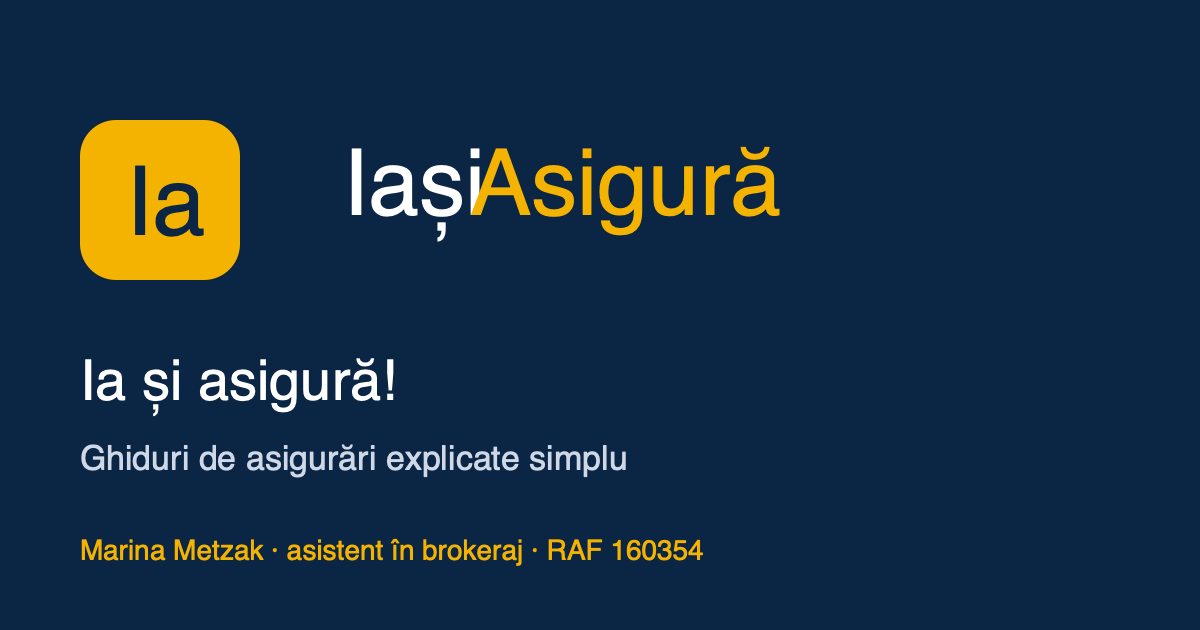
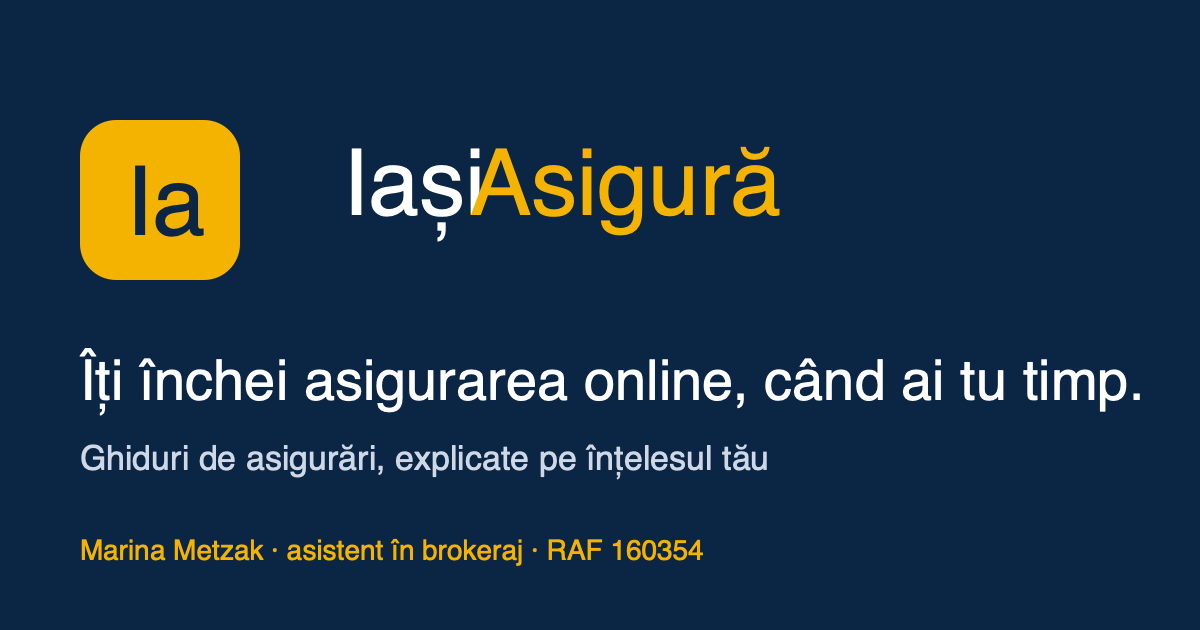
feat: hero restructurat (titlu scurt, portret, cine sunt + ASF, pași înainte de produse), OG cu titlul nou

Changed region(s): [[0.0617, 0.5429, 0.9558, 0.6635], [0.3083, 0.6937, 0.6475, 0.754]]

diff --git a/index.html b/index.html
@@ -5,7 +5,7 @@
   <meta charset="UTF-8" />
   <meta name="viewport" content="width=device-width, initial-scale=1.0" />
   <title>Asigurări online în România | IașiAsigură, Marina Metzak</title>
-  <meta name="description" content="RCA, locuință, călătorie sau sănătate le închei online, pe platforma brokerului. Pentru restul îmi scrii pe WhatsApp. Marina Metzak, asistent în brokeraj." />
+  <meta name="description" content="Asigurări RCA, locuință, călătorie, sănătate încheiate online cu Marina Metzak, asistent în brokeraj înregistrat la ASF. Pentru restul, ofertă pe WhatsApp." />
   <meta name="robots" content="index, follow, max-image-preview:large, max-snippet:-1" />
   <link rel="canonical" href="https://iasiasigura.com/" />
   <meta name="theme-color" content="#0b2545" />
@@ -15,14 +15,14 @@
   <meta property="og:locale" content="ro_RO" />
   <meta property="og:site_name" content="IașiAsigură" />
   <meta property="og:title" content="Asigurări online în România | IașiAsigură, Marina Metzak" />
-  <meta property="og:description" content="RCA, locuință, călătorie sau sănătate le închei online, pe platforma brokerului. Pentru restul îmi scrii pe WhatsApp. Marina Metzak, asistent în brokeraj." />
+  <meta property="og:description" content="Asigurări RCA, locuință, călătorie, sănătate încheiate online cu Marina Metzak, asistent în brokeraj înregistrat la ASF. Pentru restul, ofertă pe WhatsApp." />
   <meta property="og:url" content="https://iasiasigura.com/" />
   <meta property="og:image" content="https://iasiasigura.com/assets/og-default.png" />
   <meta property="og:image:width" content="1200" />
   <meta property="og:image:height" content="630" />
   <meta name="twitter:card" content="summary_large_image" />
   <meta name="twitter:title" content="Asigurări online în România | IașiAsigură, Marina Metzak" />
-  <meta name="twitter:description" content="RCA, locuință, călătorie sau sănătate le închei online, pe platforma brokerului. Pentru restul îmi scrii pe WhatsApp. Marina Metzak, asistent în brokeraj." />
+  <meta name="twitter:description" content="Asigurări RCA, locuință, călătorie, sănătate încheiate online cu Marina Metzak, asistent în brokeraj înregistrat la ASF. Pentru restul, ofertă pe WhatsApp." />
   <meta name="twitter:image" content="https://iasiasigura.com/assets/og-default.png" />
   <link rel="icon" href="assets/favicon.svg" type="image/svg+xml" />
   <link rel="apple-touch-icon" href="assets/apple-touch-icon.png" />
@@ -186,24 +186,29 @@
     </div>
   </header>
   <main id="main">
-  <section class="hero"><div class="container">
-    <p class="eyebrow">Marina Metzak · asistent în brokeraj · RAF 160354</p>
-    <h1>Îți închei asigurarea online. Pentru orice întrebare, îți răspund eu.</h1>
-    <p>Pentru polițele RCA, de locuință, călătorie sau sănătate, ai la dispoziție o soluție simplă și rapidă: le poți încheia online, iar polița ajunge direct pe e-mail. Pentru CASCO, asigurări de viață, cele dedicate companiilor sau sectorului agricol, mă poți contacta pe WhatsApp. Compar ofertele mai multor asigurători și îți prezint opțiunile potrivite nevoilor tale, astfel încât să poți lua o decizie informată.</p>
-    <div class="cta-row"><a href="https://wa.me/40752205206?text=Bun%C4%83%20Marina%2C%20vreau%20informa%C8%9Bii%20despre%20o%20asigurare." class="btn btn-wa" target="_blank" rel="noopener"><svg viewBox="0 0 24 24" width="20" height="20" aria-hidden="true"><path fill="currentColor" d="M12 2a10 10 0 0 0-8.6 15.1L2 22l5-1.3A10 10 0 1 0 12 2zm0 18.2a8.2 8.2 0 0 1-4.2-1.2l-.3-.2-3 .8.8-2.9-.2-.3A8.2 8.2 0 1 1 12 20.2zm4.5-6.1c-.2-.1-1.5-.7-1.7-.8s-.4-.1-.6.1-.6.8-.8 1c-.1.2-.3.2-.5.1a6.7 6.7 0 0 1-3.3-2.9c-.3-.4.3-.4.7-1.3.1-.2 0-.3 0-.5l-.8-1.8c-.2-.5-.4-.4-.6-.4h-.5a1 1 0 0 0-.7.3 3 3 0 0 0-.9 2.2 5.2 5.2 0 0 0 1.1 2.8 12 12 0 0 0 4.6 4c1.7.7 2.1.6 2.8.5a2.4 2.4 0 0 0 1.6-1.1 2 2 0 0 0 .1-1.1c0-.2-.2-.2-.5-.3z"/></svg><span>Scrie pe WhatsApp</span></a><a href="#asigurari" class="btn btn-primary">Vezi asigurările</a></div>
-    <ul class="hero-points"><li>✔ Asistent în brokeraj înregistrat la ASF (RAF 160354)</li><li>✔ Lucrez online cu clienți din toată România</li><li>✔ Îți răspund pe WhatsApp, în timpul programului</li><li>✔ Polița ajunge pe e-mail imediat după plată</li></ul>
+  <section class="hero"><div class="container hero-grid">
+    <div class="hero-text">
+      <p class="eyebrow">IașiAsigură · asigurări online</p>
+      <h1>Îți închei asigurarea online, când ai tu timp.</h1>
+      <p class="hero-sub">Pentru orice întrebare îți răspund eu, Marina Metzak, asistent în brokeraj înregistrat la ASF. Nu un call-center.</p>
+      <div class="cta-row"><a href="#asigurari" class="btn btn-primary">Alege asigurarea</a><a href="https://wa.me/40752205206?text=Bun%C4%83%20Marina%2C%20vreau%20informa%C8%9Bii%20despre%20o%20asigurare." class="btn btn-wa" target="_blank" rel="noopener"><svg viewBox="0 0 24 24" width="20" height="20" aria-hidden="true"><path fill="currentColor" d="M12 2a10 10 0 0 0-8.6 15.1L2 22l5-1.3A10 10 0 1 0 12 2zm0 18.2a8.2 8.2 0 0 1-4.2-1.2l-.3-.2-3 .8.8-2.9-.2-.3A8.2 8.2 0 1 1 12 20.2zm4.5-6.1c-.2-.1-1.5-.7-1.7-.8s-.4-.1-.6.1-.6.8-.8 1c-.1.2-.3.2-.5.1a6.7 6.7 0 0 1-3.3-2.9c-.3-.4.3-.4.7-1.3.1-.2 0-.3 0-.5l-.8-1.8c-.2-.5-.4-.4-.6-.4h-.5a1 1 0 0 0-.7.3 3 3 0 0 0-.9 2.2 5.2 5.2 0 0 0 1.1 2.8 12 12 0 0 0 4.6 4c1.7.7 2.1.6 2.8.5a2.4 2.4 0 0 0 1.6-1.1 2 2 0 0 0 .1-1.1c0-.2-.2-.2-.5-.3z"/></svg><span>Scrie-mi pe WhatsApp</span></a></div>
+      <ul class="hero-points"><li>✔ Înregistrată la ASF, cod RAF 160354</li><li>✔ În numele Destine Broker (RBK-425)</li><li>✔ Polița ajunge pe e-mail după plată</li><li>✔ Clienți din toată România, online</li></ul>
+    </div>
+    <div class="hero-photo"><picture><source media="(max-width:860px)" srcset="assets/marina.webp" /><img src="assets/marina-portret.webp" alt="Marina Metzak, asistent în brokeraj" width="360" height="450" fetchpriority="high" /></picture></div>
   </div></section>
+  <section id="cine" class="section-tight"><div class="container container-narrow"><p class="eyebrow">Cine sunt</p><h2>Marina Metzak, consultant în asigurări din Iași</h2>
+    <p>Pentru polițele RCA, de locuință, călătorie sau sănătate, ai la dispoziție o soluție simplă și rapidă: le poți încheia online, iar polița ajunge direct pe e-mail. Pentru CASCO, asigurări de viață, cele dedicate companiilor sau sectorului agricol, mă poți contacta pe WhatsApp. Compar ofertele mai multor asigurători și îți prezint opțiunile potrivite nevoilor tale, astfel încât să poți lua o decizie informată.</p><p><a href="despre.html">Mai multe despre mine și cum lucrez →</a></p></div></section>
+  <section class="section-alt" id="cum"><div class="container"><p class="eyebrow">Cum funcționează</p><h2>Ce ai de făcut</h2><div class="steps"><div class="step"><h3>Alegi asigurarea</h3><p>Din lista de mai jos. La RCA, locuință, PAD, călătorie, sănătate sau malpraxis apeși „Cumpără online”. La celelalte, „Cere ofertă pe WhatsApp”.</p></div><div class="step"><h3>Completezi datele</h3><p>Completezi datele pe platforma brokerului. Pentru RCA ai nevoie doar de talon și de actul de identitate. Dacă ai nelămuriri, îmi scrii pe WhatsApp și te îndrum la fiecare pas.</p></div><div class="step"><h3>Primești polița pe e-mail</h3><p>După plată, de obicei în câteva minute. Verifică și dosarul spam, se mai întâmplă. La produsele cu ofertă, îți trimit variantele, alegi, iar eu emit polița după ce confirmi.</p></div></div></div></section>
   <section id="asigurari"><div class="container"><p class="eyebrow">Asigurări</p><h2>Ce asigurare îți trebuie?</h2>
     <p>Cele marcate <strong>Online</strong> le închei direct pe platforma brokerului. La cele cu <strong>Ofertă pe WhatsApp</strong> îmi scrii, iar eu cer ofertele, le compar și ți le trimit.</p>
     <div class="grid"><a class="card product-card" href="asigurari/rca.html"><span class="card-icon" aria-hidden="true">🚗</span><span class="badge badge-online">Online</span><h3>Asigurare RCA</h3><p>Obligatorie pentru orice vehicul înmatriculat. O poți încheia online.</p></a><a class="card product-card" href="asigurari/casco.html"><span class="card-icon" aria-hidden="true">🛡</span><span class="badge badge-consult">Ofertă pe WhatsApp</span><h3>Asigurare CASCO</h3><p>Pentru vehiculul tău: avarii, furt, grindină. Îți compar ofertele.</p></a><a class="card product-card" href="asigurari/locuinta.html"><span class="card-icon" aria-hidden="true">🏠</span><span class="badge badge-online">Online</span><h3>Asigurare locuință</h3><p>Facultativa: incendiu, inundație de la etajul superior, furt, răspundere.</p></a><a class="card product-card" href="asigurari/pad.html"><span class="card-icon" aria-hidden="true">🌍</span><span class="badge badge-online">Online</span><h3>Asigurare PAD</h3><p>Obligatorie prin lege: cutremur, inundație, alunecare de teren.</p></a><a class="card product-card" href="asigurari/calatorie.html"><span class="card-icon" aria-hidden="true">✈</span><span class="badge badge-online">Online</span><h3>Asigurare de călătorie</h3><p>Medicală în străinătate. Pentru concediu, Erasmus sau muncă.</p></a><a class="card product-card" href="asigurari/storno.html"><span class="card-icon" aria-hidden="true">🎫</span><span class="badge badge-online">Online</span><h3>Asigurare storno</h3><p>Primești banii înapoi dacă nu mai poți pleca în călătorie.</p></a><a class="card product-card" href="asigurari/sanatate.html"><span class="card-icon" aria-hidden="true">🩺</span><span class="badge badge-online">Online</span><h3>Asigurare de sănătate</h3><p>Clinici private, analize, spitalizare. Fără trimitere.</p></a><a class="card product-card" href="asigurari/viata.html"><span class="card-icon" aria-hidden="true">❤</span><span class="badge badge-consult">Ofertă pe WhatsApp</span><h3>Asigurare de viață</h3><p>Pentru familie, dacă ție ți se întâmplă ceva.</p></a><a class="card product-card" href="asigurari/pensii-private.html"><span class="card-icon" aria-hidden="true">🏦</span><span class="badge badge-consult">Ofertă pe WhatsApp</span><h3>Pensie privată Pilon III</h3><p>Pilon III: contribuție deductibilă, a treia pensie.</p></a><a class="card product-card" href="asigurari/malpraxis.html"><span class="card-icon" aria-hidden="true">⚕</span><span class="badge badge-online">Online</span><h3>Asigurare malpraxis</h3><p>Obligatorie pentru medici, asistenți, rezidenți. Se solicită la aviz.</p></a><a class="card product-card" href="asigurari/raspundere-civila.html"><span class="card-icon" aria-hidden="true">⚖</span><span class="badge badge-consult">Ofertă pe WhatsApp</span><h3>Răspundere civilă</h3><p>Profesională sau personală: pagubele pe care le produci altora.</p></a><a class="card product-card" href="asigurari/taxi-uber-bolt.html"><span class="card-icon" aria-hidden="true">🚕</span><span class="badge badge-online">Online</span><h3>Asigurare taxi / Uber / Bolt</h3><p>Accidente pentru șofer, pasageri, bagaje. Necesară la autorizare.</p></a><a class="card product-card" href="asigurari/rotr.html"><span class="card-icon" aria-hidden="true">🚛</span><span class="badge badge-online">Online</span><h3>Asigurare ROTR</h3><p>Pentru licența de transport: dovada capacității financiare.</p></a><a class="card product-card" href="asigurari/cargo-cmr.html"><span class="card-icon" aria-hidden="true">📦</span><span class="badge badge-consult">Ofertă pe WhatsApp</span><h3>CARGO și CMR</h3><p>Marfa și răspunderea cărăușului pentru ea.</p></a><a class="card product-card" href="asigurari/imm.html"><span class="card-icon" aria-hidden="true">🏢</span><span class="badge badge-consult">Ofertă pe WhatsApp</span><h3>Asigurări pentru IMM</h3><p>Spațiul, marfa, utilajele, angajații. Pentru firme mici.</p></a><a class="card product-card" href="asigurari/agricole.html"><span class="card-icon" aria-hidden="true">🌾</span><span class="badge badge-consult">Ofertă pe WhatsApp</span><h3>Asigurări agricole</h3><p>Culturi, animale, utilaje. Pentru dosarul de la bancă sau de la APIA.</p></a></div></div></section>
   <section class="section-alt" id="de-ce"><div class="container"><p class="eyebrow">De ce prin intermediul meu</p><h2>Ce este diferit când lucrezi cu mine</h2><div class="grid"><div class="card"><h3>Un consultant, nu un call-center</h3><p>Vorbești cu mine, pe WhatsApp sau la telefon. Aceeași persoană înainte de încheierea poliței, după, și în ziua în care ai o daună și nu știi de unde să începi.</p></div><div class="card"><h3>Înregistrată la ASF</h3><p>Am codul RAF 160354 și lucrez în numele Destine Broker (RBK-425), un broker cu peste 15 ani pe piață. Mă poți verifica în registrul ASF, durează un minut.</p></div><div class="card"><h3>Închei polița singur, când ai timp</h3><p>Platforma brokerului îți arată ofertele mai multor asigurători și emite polița pe loc. Plătești cu cardul, iar polița ajunge pe e-mail. Duminica seara merge la fel ca marți la prânz.</p></div><div class="card"><h3>Nu te costă nimic în plus</h3><p>Prețul este cel stabilit de asigurător. Comisionul meu îl plătește asigurătorul, nu tu. Este întrebarea pe care o primesc cel mai des, așa că o lămuresc de la început.</p></div></div></div></section>
-  <section id="cum"><div class="container"><p class="eyebrow">Cum funcționează</p><h2>Ce ai de făcut</h2><div class="steps"><div class="step"><h3>Alegi asigurarea</h3><p>Din lista de mai sus. La RCA, locuință, PAD, călătorie, sănătate sau malpraxis apeși „Cumpără online”. La celelalte, „Cere ofertă pe WhatsApp”.</p></div><div class="step"><h3>Completezi datele</h3><p>Completezi datele pe platforma brokerului. Pentru RCA ai nevoie doar de talon și de actul de identitate. Dacă ai nelămuriri, îmi scrii pe WhatsApp și te îndrum la fiecare pas.</p></div><div class="step"><h3>Primești polița pe e-mail</h3><p>După plată, de obicei în câteva minute. Verifică și dosarul spam, se mai întâmplă. La produsele cu ofertă, îți trimit variantele, alegi, iar eu emit polița după ce confirmi.</p></div></div></div></section>
-  <section class="section-alt"><div class="container container-narrow">
+  <section><div class="container container-narrow">
     <section class="faq" id="faq"><h2>Întrebări pe care le primesc des</h2><details class="faq-item"><summary><h3>Cât costă serviciul tău?</h3></summary><div class="faq-a"><p>Nimic în plus. Prețul poliței este cel stabilit de asigurător, iar comisionul meu îl plătește asigurătorul. Plătești la fel dacă mergi direct la asigurător sau dacă închei polița prin intermediul meu. Diferența este că ai pe cineva căruia îi poți pune întrebări, înainte și după.</p></div></details><details class="faq-item"><summary><h3>Este legal să închei o poliță printr-un asistent în brokeraj?</h3></summary><div class="faq-a"><p>Da. Asistentul în brokeraj este un intermediar înregistrat la ASF, care lucrează în numele unui broker autorizat. Eu am codul RAF 160354 și lucrez în numele Destine Broker (RBK-425). Le poți verifica pe amândouă în registrul ASF; pe pagina Despre îți arăt cum.</p></div></details><details class="faq-item"><summary><h3>Cât durează să închei o asigurare online?</h3></summary><div class="faq-a"><p>La RCA, PAD sau călătorie, sub 10 minute dacă ai talonul la îndemână. Introduci datele, alegi oferta, plătești cu cardul și polița ajunge pe e-mail. Dacă polița veche îți expiră mâine, aceste minute chiar contează.</p></div></details><details class="faq-item"><summary><h3>Pot încheia o poliță dacă nu sunt din Iași?</h3></summary><div class="faq-a"><p>Da. Platforma funcționează la fel din orice oraș, iar pe WhatsApp îți răspund la fel. Am clienți din Bacău, Suceava sau București cu care lucrez exclusiv online. Întâlnirile față în față le țin doar la Iași, cu programare.</p></div></details><details class="faq-item"><summary><h3>Primesc polița pe hârtie?</h3></summary><div class="faq-a"><p>Nu, ajunge pe e-mail, în format PDF, și este valabilă în această formă. La RCA, polițistul o vede oricum în baza de date. Dacă vrei, o poți tipări acasă. Îți recomand să păstrezi o copie și în telefon, ca să o găsești repede când ai nevoie.</p></div></details><details class="faq-item"><summary><h3>Ce fac dacă am o daună?</h3></summary><div class="faq-a"><p>Îmi scrii pe WhatsApp, cu câteva fotografii dacă ai. Îți spun ce documente îți trebuie și cum deschizi dosarul de daună la asigurător. Dacă este ceva ce nu știu pe loc, verific și revin cu un răspuns sigur.</p></div></details></section></div></section>
-  <section id="testimoniale"><div class="container"><p class="eyebrow">Clienți</p><h2>Ce spun clienții</h2><div class="grid"><blockquote class="testimonial"><p>În drum spre aeroport, plecând din țară, mi-am dat seama că am uitat să îmi fac asigurare. Am sunat-o pe Marina și ea mi-a făcut-o instant, deși și ei erau deja în aeroport, în drum spre vacanță. Așa servicii prompte, mai rar.</p><cite>Alexandra, client, Iași</cite></blockquote><blockquote class="testimonial"><p>Declar cu bucurie că m-am simțit ajutată și susținută. În panica mea că „plec într-o oră și nu am asigurare”, a contat enorm. Apreciez că a rezolvat totul cu calm și mult respect.</p><cite>Alexandra Gabriela Bejan, client</cite></blockquote></div></div></section>
-  <section class="section-alt" id="zone"><div class="container"><p class="eyebrow">Zone</p><h2>Unde lucrez</h2>
+  <section class="section-alt" id="testimoniale"><div class="container"><p class="eyebrow">Clienți</p><h2>Ce spun clienții</h2><div class="grid"><blockquote class="testimonial"><p>În drum spre aeroport, plecând din țară, mi-am dat seama că am uitat să îmi fac asigurare. Am sunat-o pe Marina și ea mi-a făcut-o instant, deși și ei erau deja în aeroport, în drum spre vacanță. Așa servicii prompte, mai rar.</p><cite>Alexandra, client, Iași</cite></blockquote><blockquote class="testimonial"><p>Declar cu bucurie că m-am simțit ajutată și susținută. În panica mea că „plec într-o oră și nu am asigurare”, a contat enorm. Apreciez că a rezolvat totul cu calm și mult respect.</p><cite>Alexandra Gabriela Bejan, client</cite></blockquote></div></div></section>
+  <section id="zone"><div class="container"><p class="eyebrow">Zone</p><h2>Unde lucrez</h2>
     <p>La Iași ne putem întâlni, cu programare. Cu clienții din restul țării lucrez pe WhatsApp și pe platforma brokerului, la fel de bine.</p><ul class="grid" style="list-style:none;padding:0"><li><a href="zone/iasi.html">Asigurări Iași</a></li><li><a href="zone/pascani.html">Asigurări Pașcani</a></li><li><a href="zone/bacau.html">Asigurări Bacău</a></li><li><a href="zone/vaslui.html">Asigurări Vaslui</a></li><li><a href="zone/botosani.html">Asigurări Botoșani</a></li><li><a href="zone/suceava.html">Asigurări Suceava</a></li><li><a href="zone/piatra-neamt.html">Asigurări Piatra Neamț</a></li><li><a href="zone/roman.html">Asigurări Roman</a></li><li><a href="zone/galati.html">Asigurări Galați</a></li></ul></div></section>
-  <section id="blog"><div class="container"><p class="eyebrow">Blog</p><h2>Articole despre întrebările pe care le primesc des</h2><div class="grid" id="home-articles"><a class="card article-card" href="blog/pret-rca-2026-cum-se-calculeaza.html"><time datetime="2026-09-15">Auto · 15 septembrie 2026</time><h3>Cum se calculează prețul RCA în 2026: ce contează</h3><p>De ce doi șoferi plătesc altceva pentru aceeași mașină: bonus-malus, vârsta, puterea motorului, județul, perioada. Explicat fără limbaj de contract.</p></a><a class="card article-card" href="blog/asigurare-bolt-uber-iasi.html"><time datetime="2026-09-14">Auto · 14 septembrie 2026</time><h3>Șofer Bolt sau Uber în Iași: ce asigurări îți trebuie</h3><p>RCA cu utilizarea reală, polița de accidente pentru pasageri și bagaje cerută la autorizare și de ce CASCO devine necesară când trăiești din condus.</p></a><a class="card article-card" href="blog/pad-asigurare-obligatorie-locuinta.html"><time datetime="2026-09-13">Locuință · 13 septembrie 2026</time><h3>PAD: asigurarea obligatorie a locuinței, explicată</h3><p>Cine este obligat să aibă PAD, ce acoperă (doar trei riscuri), ce riști fără ea și cum o închei online. Legea 260/2008, explicată fără limbaj juridic.</p></a></div><p><a href="blog/">Toate articolele →</a></p></div></section>
+  <section class="section-alt" id="blog"><div class="container"><p class="eyebrow">Blog</p><h2>Articole despre întrebările pe care le primesc des</h2><div class="grid" id="home-articles"><a class="card article-card" href="blog/pret-rca-2026-cum-se-calculeaza.html"><time datetime="2026-09-15">Auto · 15 septembrie 2026</time><h3>Cum se calculează prețul RCA în 2026: ce contează</h3><p>De ce doi șoferi plătesc altceva pentru aceeași mașină: bonus-malus, vârsta, puterea motorului, județul, perioada. Explicat fără limbaj de contract.</p></a><a class="card article-card" href="blog/asigurare-bolt-uber-iasi.html"><time datetime="2026-09-14">Auto · 14 septembrie 2026</time><h3>Șofer Bolt sau Uber în Iași: ce asigurări îți trebuie</h3><p>RCA cu utilizarea reală, polița de accidente pentru pasageri și bagaje cerută la autorizare și de ce CASCO devine necesară când trăiești din condus.</p></a><a class="card article-card" href="blog/pad-asigurare-obligatorie-locuinta.html"><time datetime="2026-09-13">Locuință · 13 septembrie 2026</time><h3>PAD: asigurarea obligatorie a locuinței, explicată</h3><p>Cine este obligat să aibă PAD, ce acoperă (doar trei riscuri), ce riști fără ea și cum o închei online. Legea 260/2008, explicată fără limbaj juridic.</p></a></div><p><a href="blog/">Toate articolele →</a></p></div></section>
   </main>
   <footer class="site-footer">
     <div class="container footer-grid">

diff --git a/css/styles.css b/css/styles.css
@@ -33,7 +33,10 @@ img,svg{max-width:100%;height:auto}ul,ol{padding-left:1.3rem;color:var(--slate)}
 .header-wa{padding:10px 16px;font-size:.95rem}.header-wa svg{width:20px;height:20px;flex-shrink:0}
 /* hero */
 .hero{background:linear-gradient(135deg,var(--navy) 0%,var(--navy-2) 60%,#1a4a86 100%);color:#fff;padding:56px 0 48px}
-.hero h1{color:#fff}.hero p{color:rgba(255,255,255,.88);font-size:1.15rem;max-width:640px}.hero .eyebrow{color:var(--sun)}
+.hero h1{color:#fff;font-size:clamp(1.8rem,3.6vw,2.6rem)}.hero p{color:rgba(255,255,255,.88);font-size:1.15rem;max-width:640px}.hero .eyebrow{color:var(--sun)}
+.hero-grid{display:grid;grid-template-columns:1.25fr .75fr;gap:32px;align-items:center}.hero-sub{font-size:1.1rem}
+.hero-photo img{width:100%;max-width:360px;height:auto;aspect-ratio:4/5;object-fit:cover;border-radius:var(--radius);box-shadow:0 20px 50px rgba(0,0,0,.35);display:block;margin-inline:auto}
+.section-tight{padding:40px 0 8px}
 .eyebrow{font-weight:700;text-transform:uppercase;letter-spacing:.12em;font-size:.78rem;color:var(--blue);margin:0 0 .6rem}
 .hero-points{display:flex;flex-wrap:wrap;gap:10px 22px;list-style:none;padding:0;margin:1.2rem 0 0;color:rgba(255,255,255,.9);font-size:.95rem}
 /* secțiuni și carduri */
@@ -74,7 +77,8 @@ section{padding:52px 0}.section-alt{background:var(--bg-soft)}
   .nav-toggle{display:block}.nav{margin-left:auto}
   .nav-menu{display:none;position:absolute;left:0;right:0;top:68px;background:#fff;border-bottom:1px solid var(--line);flex-direction:column;padding:10px 16px 16px}
   .nav-menu.open{display:flex}.header-wa span{display:none}.header-wa{padding:10px;width:44px;height:44px;flex-shrink:0}.hero .cta-row{padding-right:70px}
-  .hero{padding:40px 0 36px}section{padding:40px 0}
+  .hero{padding:32px 0 32px}section{padding:40px 0}
+  .hero-grid{grid-template-columns:1fr;gap:20px}.hero-photo{order:-1}.hero-photo img{max-width:220px;aspect-ratio:1;border-radius:50%}.hero h1{font-size:1.75rem}.hero-sub{font-size:1rem}
   .about-photo{float:none;display:block;margin:0 auto 16px;width:min(280px,100%);height:auto;aspect-ratio:4/5}
   .author-box{flex-direction:column;align-items:flex-start}
 }

diff --git a/build.py b/build.py
@@ -70,23 +70,28 @@ def render_home():
     zones = "".join(f'<li><a href="zone/{s}.html">Asigurări {n}</a></li>' for s, n in ZONE_LINKS)
     wa = T.wa_link(WA_DEFAULT)
     body = f"""
-  <section class="hero"><div class="container">
-    <p class="eyebrow">Marina Metzak · asistent în brokeraj · RAF {T.P['raf']}</p>
-    <h1>{html.escape(HOME['h1'])}</h1>
-    <p>{html.escape(HOME['lead'])}</p>
-    <div class="cta-row"><a href="{wa}" class="btn btn-wa" target="_blank" rel="noopener">{T.WA_SVG}<span>Scrie pe WhatsApp</span></a><a href="#asigurari" class="btn btn-primary">Vezi asigurările</a></div>
-    <ul class="hero-points">{points}</ul>
+  <section class="hero"><div class="container hero-grid">
+    <div class="hero-text">
+      <p class="eyebrow">IașiAsigură · asigurări online</p>
+      <h1>{html.escape(HOME['h1'])}</h1>
+      <p class="hero-sub">{html.escape(HOME['sub'])}</p>
+      <div class="cta-row"><a href="#asigurari" class="btn btn-primary">Alege asigurarea</a><a href="{wa}" class="btn btn-wa" target="_blank" rel="noopener">{T.WA_SVG}<span>Scrie-mi pe WhatsApp</span></a></div>
+      <ul class="hero-points">{points}</ul>
+    </div>
+    <div class="hero-photo"><picture><source media="(max-width:860px)" srcset="assets/marina.webp" /><img src="assets/marina-portret.webp" alt="Marina Metzak, asistent în brokeraj" width="360" height="450" fetchpriority="high" /></picture></div>
   </div></section>
+  <section id="cine" class="section-tight"><div class="container container-narrow"><p class="eyebrow">Cine sunt</p><h2>Marina Metzak, consultant în asigurări din Iași</h2>
+    <p>{html.escape(HOME['lead'])}</p><p><a href="despre.html">Mai multe despre mine și cum lucrez →</a></p></div></section>
+  <section class="section-alt" id="cum"><div class="container"><p class="eyebrow">Cum funcționează</p><h2>Ce ai de făcut</h2><div class="steps">{steps}</div></div></section>
   <section id="asigurari"><div class="container"><p class="eyebrow">Asigurări</p><h2>Ce asigurare îți trebuie?</h2>
     <p>Cele marcate <strong>Online</strong> le închei direct pe platforma brokerului. La cele cu <strong>Ofertă pe WhatsApp</strong> îmi scrii, iar eu cer ofertele, le compar și ți le trimit.</p>
     <div class="grid">{cards}</div></div></section>
   <section class="section-alt" id="de-ce"><div class="container"><p class="eyebrow">De ce prin intermediul meu</p><h2>Ce este diferit când lucrezi cu mine</h2><div class="grid">{why}</div></div></section>
-  <section id="cum"><div class="container"><p class="eyebrow">Cum funcționează</p><h2>Ce ai de făcut</h2><div class="steps">{steps}</div></div></section>
-  <section class="section-alt"><div class="container container-narrow">{T.faq_block(HOME['faq'])}</div></section>
-  <section id="testimoniale"><div class="container"><p class="eyebrow">Clienți</p><h2>Ce spun clienții</h2><div class="grid">{testi}</div></div></section>
-  <section class="section-alt" id="zone"><div class="container"><p class="eyebrow">Zone</p><h2>Unde lucrez</h2>
+  <section><div class="container container-narrow">{T.faq_block(HOME['faq'])}</div></section>
+  <section class="section-alt" id="testimoniale"><div class="container"><p class="eyebrow">Clienți</p><h2>Ce spun clienții</h2><div class="grid">{testi}</div></div></section>
+  <section id="zone"><div class="container"><p class="eyebrow">Zone</p><h2>Unde lucrez</h2>
     <p>La Iași ne putem întâlni, cu programare. Cu clienții din restul țării lucrez pe WhatsApp și pe platforma brokerului, la fel de bine.</p><ul class="grid" style="list-style:none;padding:0">{zones}</ul></div></section>
-  <section id="blog"><div class="container"><p class="eyebrow">Blog</p><h2>Articole despre întrebările pe care le primesc des</h2><div class="grid" id="home-articles">{LATEST_ARTICLES_HTML[0]}</div><p><a href="blog/">Toate articolele →</a></p></div></section>"""
+  <section class="section-alt" id="blog"><div class="container"><p class="eyebrow">Blog</p><h2>Articole despre întrebările pe care le primesc des</h2><div class="grid" id="home-articles">{LATEST_ARTICLES_HTML[0]}</div><p><a href="blog/">Toate articolele →</a></p></div></section>"""
     jsonld = [T.website_node(), T.agency_node(), T.person_node(), T.faqpage([tuple(x) for x in HOME["faq"]])]
     return T.page(HOME["title"], HOME["desc"], "/", jsonld, R, body, WA_DEFAULT)
 
